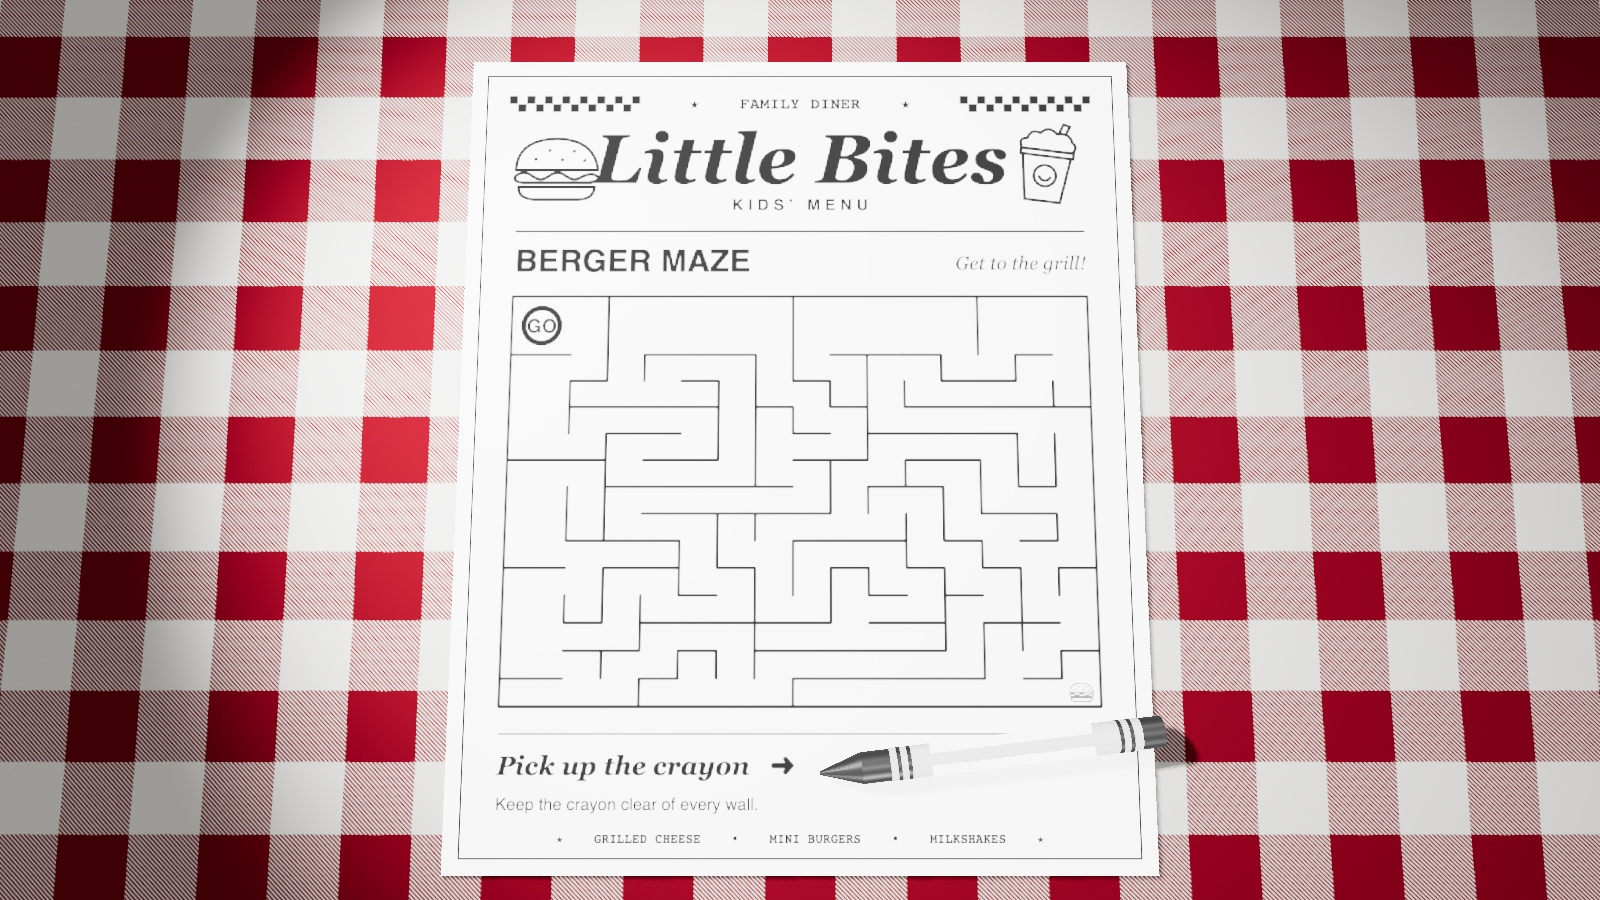
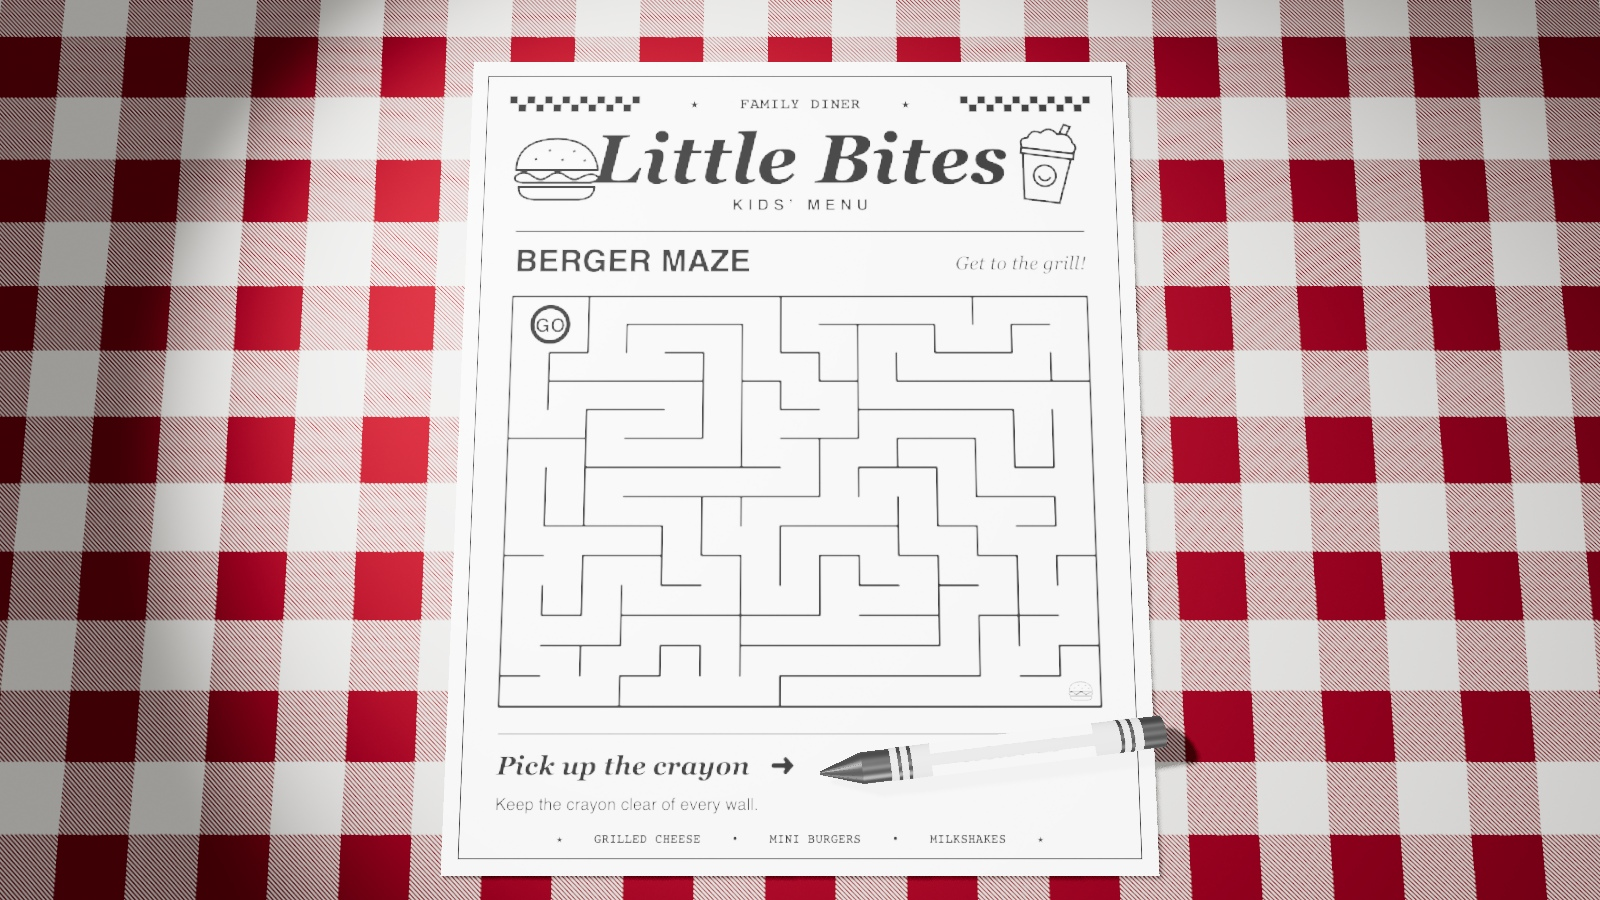
Restore uniform maze lanes around the enlarged GO entrance

diff --git a/src/menu-game.js b/src/menu-game.js
@@ -4,16 +4,10 @@ export const PAPER = { width: 900, height: 1080 };
 export const GRID = { x: 65, y: 333, cols: 15, rows: 14, width: 770, height: 539 };
 export const INK = 3.5, WAX = 14;
 export const GO_RADIUS = 24;
-const startCellSize = 80;
+const cellWidth = GRID.width / GRID.cols, cellHeight = GRID.height / GRID.rows;
 const point = (x, y) => ({x,y});
-// Give GO a square starting cell, sharing the remaining paper evenly among the other lanes.
-function gridLines(origin, span, count) {
-  const lane = (span - startCellSize) / (count - 1);
-  return Array.from({length:count+1}, (_,i) => i===0 ? origin : origin+startCellSize+(i-1)*lane);
-}
-const columnEdges = gridLines(GRID.x, GRID.width, GRID.cols);
-const rowEdges = gridLines(GRID.y, GRID.height, GRID.rows);
-export const center = (x,y) => point((columnEdges[x]+columnEdges[x+1])/2,(rowEdges[y]+rowEdges[y+1])/2);
+const gridPoint = (x,y) => point(GRID.x+x*cellWidth, GRID.y+y*cellHeight);
+export const center = (x,y) => gridPoint(x+.5,y+.5);
 
 export function menuMaze(seed) {
   const {cols,rows}=GRID, random=seededRandom(seed);
@@ -28,9 +22,12 @@ export function menuMaze(seed) {
     const b=choices[Math.floor(random()*choices.length)];
     visited.add(b);doors.add(edge(a,b));stack.push(b);
   }
+  // Merge the top-left four cells for GO, preserving every passage outside the entrance.
+  for(const row of [0,cols])doors.add(edge(row,row+1));
+  for(const col of [0,1])doors.add(edge(col,col+cols));
   const walls=[];
   function wall(x,y,dx,dy){
-    walls.push([point(columnEdges[x],rowEdges[y]),point(columnEdges[x+dx],rowEdges[y+dy])]);
+    walls.push([gridPoint(x,y),gridPoint(x+dx,y+dy)]);
   }
   for(let y=0;y<rows;y++)for(let x=0;x<cols;x++){
     const a=y*cols+x;
@@ -39,7 +36,7 @@ export function menuMaze(seed) {
     if(x===cols-1||!doors.has(edge(a,a+1)))wall(x+1,y,0,1);
     if(y===rows-1||!doors.has(edge(a,a+cols)))wall(x,y+1,1,0);
   }
-  return {walls,start:center(0,0),finish:center(cols-1,rows-1)};
+  return {walls,start:gridPoint(1,1),finish:center(cols-1,rows-1)};
 }
 function distanceToSegment(p,a,b){
   const dx=b.x-a.x,dy=b.y-a.y;

diff --git a/tests/labyrinth.test.js b/tests/labyrinth.test.js
@@ -3,6 +3,24 @@ import assert from 'node:assert/strict';
 import { MenuGame, GRID, INK, WAX, center, touches } from '../src/menu-game.js';
 import { validateSetup } from '../src/settings.js';
 
+test('GO occupies a two-by-two entrance on the original uniform grid',()=>{
+  const width=GRID.width/GRID.cols,height=GRID.height/GRID.rows;
+  for(const seed of [1,13,732234,999999]){
+    const g=new MenuGame(seed);
+    assert.deepEqual(g.start,{x:GRID.x+width,y:GRID.y+height});
+    for(const wall of g.walls){
+      for(const p of wall){
+        const col=(p.x-GRID.x)/width,row=(p.y-GRID.y)/height;
+        assert.ok(Math.abs(col-Math.round(col))<1e-10);
+        assert.ok(Math.abs(row-Math.round(row))<1e-10);
+      }
+      for(const x of [0,1])for(const y of [0,1]){
+        assert.equal(touches(g.start,center(x,y),wall),false);
+      }
+    }
+  }
+});
+
 test('the full enlarged GO target starts a safe stroke and resume still requires the last mark',()=>{
   const g=new MenuGame(13);
   for(const [dx,dy] of [[28,0],[-28,0],[0,28],[0,-28],[19,19]]){
